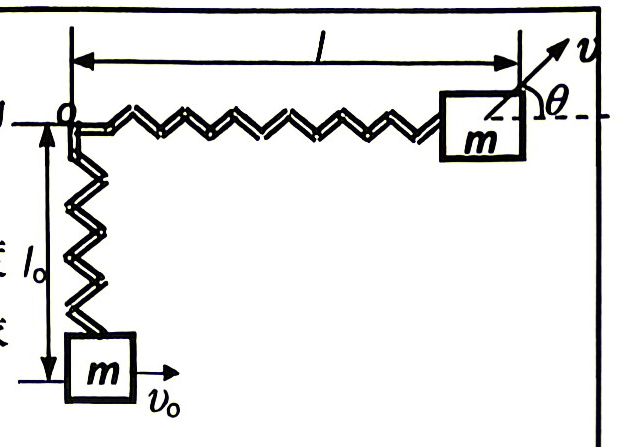
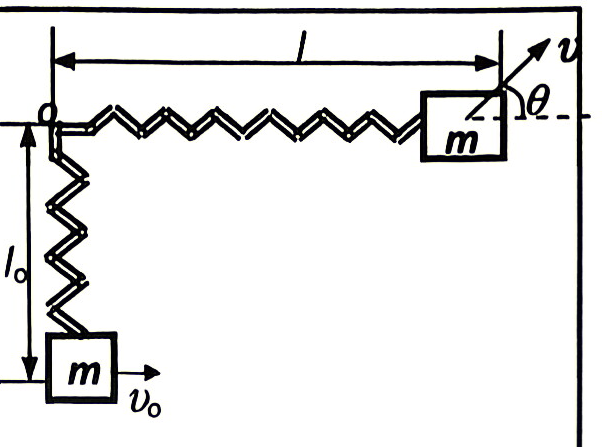
大学物理上册：复核刚体题图034裁边并保留全部物理标签

diff --git a/物理/40_派生视图/大物上/上册逐章/03_角动量与刚体/README.md b/物理/40_派生视图/大物上/上册逐章/03_角动量与刚体/README.md
@@ -114,3 +114,7 @@
 ## 既有入库绑定问题
 
 本章图片替换检查与S1校验通过；整份旧入库绑定校验存在本章之外的既有输出哈希失配，未擅自刷新这些记录。详见 validation.json 的 intake_verify。这里不宣称旧入库总验收通过。
+
+## 034 裁边复核
+
+总验收收紧原PDF裁图左边界，去除相邻正文残片；l0、O、l、m、v0与θ保留，题面和图片引用路径均未改。[裁边前后实际图](crop-review-034.png)。
